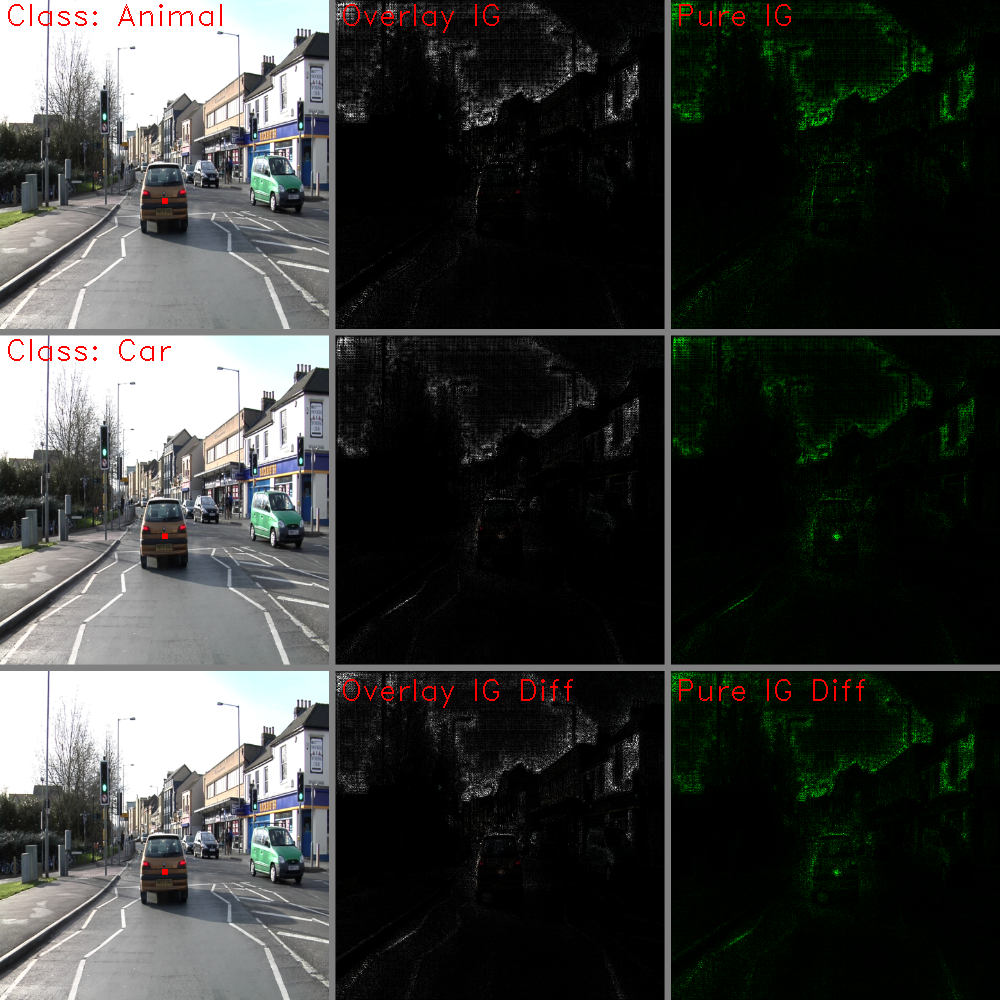
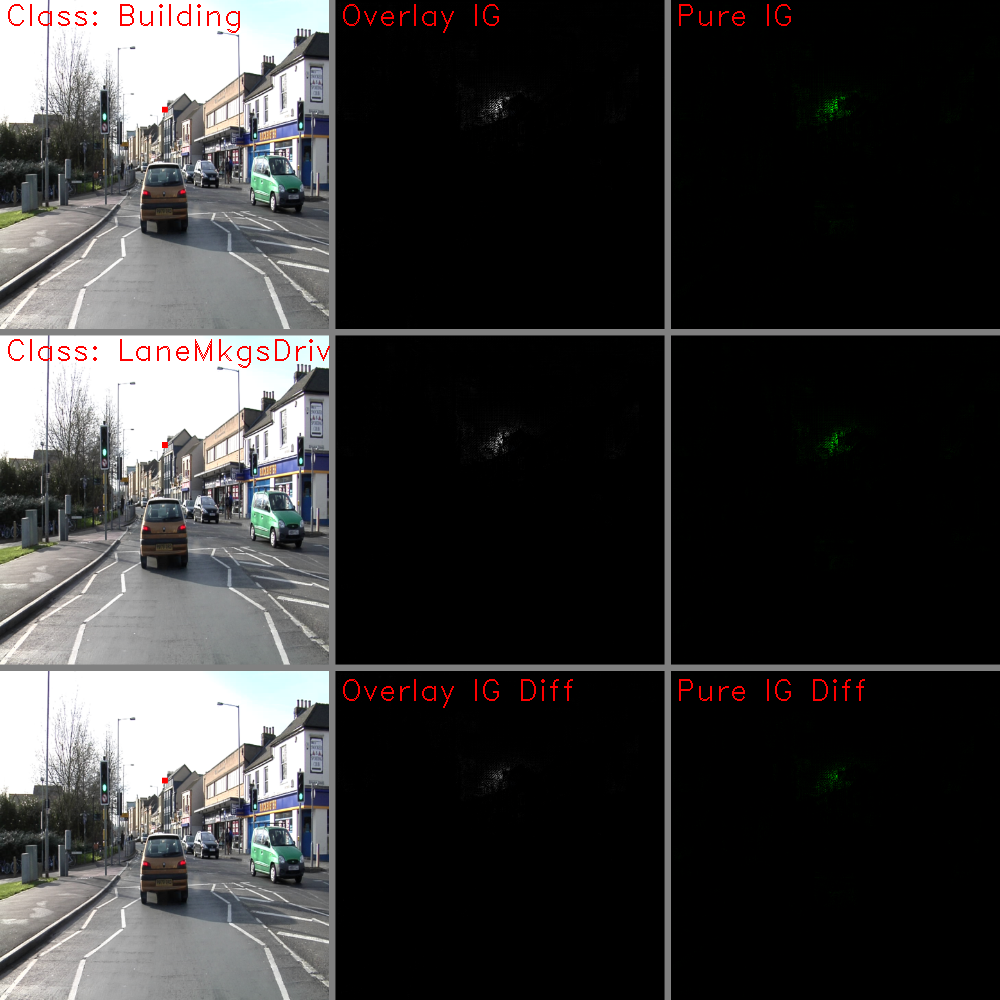
Added just gradients calculation
Added a feature to just calculate the gradients scaled by the original image, no integration.

To accomplish this, I also rearranged some of the functions in Integrated_Gradients, allowing easier compartmentalization and offshoots.

diff --git a/Integrated_Gradients.py b/Integrated_Gradients.py
@@ -8,17 +8,25 @@ from transformers import SegformerFeatureExtractor
 # reduce_labels is not included (such that it defaults to False) - Unlike ADE20k, we don't have a background label
 featureExtractor = SegformerFeatureExtractor()
 
+# Given the input image array, convert it to a PyTorch tensor and push it through the model, get the output logits
+def calculate_outputs(imgArr, model, device):
+
+    # Get the tensor (1x3xHxW) output from the SegFormer preprocessor
+    imgTens = featureExtractor(imgArr, return_tensors='pt')['pixel_values'].to(device)
+    imgTens.requires_grad = True
+
+    # Evaluate the model and get classifier outputs
+    outputTens = model(pixel_values=imgTens)
+    outputTens = outputTens.logits
+
+    return imgTens, outputTens
+
 
 # Between a baseline image and the target image, calculate the intermediate gradient values and discretely integrate
 def integ_gradients(imgArr, model, targetLabelIdx, targetPxH, targetPxW, baseline, steps, device):
 
-    # imgArr is a  numpy array (HxWxRGB) representing a PIL image
-    # model is the pytorch model
-    # targetLabelIdx is the index from which to calculate gradients
-    # targetPxH and targetPxW are the target pixel height and width indices
+    # Other inputs covered in run_baseline_integ_gradients
     # baseline is the baseline image numpy array, same size as imgArr
-    # steps is the number of linearly interpolated images to calculate between baseline and imgArr
-    # device is the torch.device
 
     # This is a list of the image arrays representing the steps along a linear path between baseline and input images
     imgDelta = imgArr - baseline
@@ -29,13 +37,8 @@ def integ_gradients(imgArr, model, targetLabelIdx, targetPxH, targetPxW, baselin
     gradsArrList = []
     for scaledInp in scaledInpList:
 
-        # Get the tensor (1x3xHxW) output from the SegFormer preprocessor
-        imgTens = featureExtractor(scaledInp, return_tensors='pt')['pixel_values'].to(device)
-        imgTens.requires_grad = True
-
-        # Evaluate the model and get classifier outputs
-        outputTens = model(pixel_values=imgTens)
-        outputTens = outputTens.logits
+        # Get the input image tensor and calculate the output tensor through the model
+        imgTens, outputTens = calculate_outputs(scaledInp, model, device)
 
         # Gathers the result at the given targetLabelIdx and pixel location
         outputTens = outputTens[0, targetLabelIdx, targetPxH, targetPxW]
@@ -85,15 +88,31 @@ def run_baseline_integ_gradients(imgArr, model, targetLabelIdx, targetPxH, targe
     allIntegGradsList = []
 
     # Run integrated gradients with a random baseline image and accumulate the results in allIntegGradsList
-    # If no baseline specified, use 0's array as baseline, else run with n baselines
-    if nRandBaselines is None:
+    # If 'scale', just regular gradients and scale them, if 'zero', use 0s array as baseline, else run with n baselines
+    if nRandBaselines == 'scale':
+        print('  Scaled Gradients')
+
+        # This is essentially the chunk of code out of integrated_gradients, but only for one input (no integration)
+        imgTens, outputTens = calculate_outputs(imgArr, model, device)
+        outputTens = outputTens[0, targetLabelIdx, targetPxH, targetPxW]
+        model.zero_grad()
+        outputTens.backward()
+        gradsArr = imgTens.grad.detach().cpu().numpy().squeeze()
+        prepImgArr = featureExtractor(imgArr, return_tensors='np')['pixel_values'].squeeze()
+
+        # Scale the single image gradients by the image
+        integGrad = gradsArr * prepImgArr
+        allIntegGradsList.append(integGrad)
+
+    elif nRandBaselines == 'zero':
         print('  Zero Baseline')
         integGrad = integ_gradients(imgArr, model, targetLabelIdx, targetPxH, targetPxW,
                                     baseline=0.0 * imgArr, steps=steps, device=device)
         allIntegGradsList.append(integGrad)
+
     else:
         for i in range(nRandBaselines):
-            print('  Random Baseline {}'.format(i))
+            print('  Random Baseline {}'.format(i + 1))
             integGrad = integ_gradients(imgArr, model, targetLabelIdx, targetPxH, targetPxW,
                                         baseline=255.0 * np.random.random(imgArr.shape), steps=steps, device=device)
             allIntegGradsList.append(integGrad)

diff --git a/Main.py b/Main.py
@@ -5,9 +5,9 @@ from collections import OrderedDict
 
 import torch
 
-from transformers import SegformerFeatureExtractor, SegformerForSemanticSegmentation
+from transformers import SegformerForSemanticSegmentation
 
-from Integrated_Gradients import run_baseline_integ_gradients
+from Integrated_Gradients import calculate_outputs, run_baseline_integ_gradients
 from Visualization import visualize, generate_entire_images
 from Define_Class_Dicts import define_class_dicts
 
@@ -24,11 +24,14 @@ labelName = '0016E5_01350_L.png'
 
 modelCkpt = 'checkpoints/b0_epoch=81-val_mean_iou=0.53.ckpt'
 useCuda = True
-nRandBaselines = None # Number of random baselines images, set as None to use zero baseline
-nSteps = 50 # Number of integration steps between baseline and target
+
+# Number of random baselines images and the number of steps between baseline and target
+# Set nRandBaselines as 'zero' to use the zero baseline, set as 'scale' to use scaled gradients (not integ gradients)
+nRandBaselines = 'scale'
+nSteps = 20
 
 # Target pixel location
-tgtPxH1 = 312
+tgtPxH1 = 170
 tgtPxW1 = 256
 tgtPxH2 = tgtPxH1
 tgtPxW2 = tgtPxW1
@@ -38,14 +41,19 @@ tgtPxW2 = tgtPxW1
 # 'true' to select get the truth label index from the ground truth segmentation image is implemented, but doesn't
 # work due to a bug in the opencv2 interpolation method. Even using exact nearest neighbor, there is pixel interpolation
 # such that new colors are created
-class1Type = 'rank'
+class1Type = 'true'
 class1Label = 0
-class2Type = 'true'
+class2Type = 'rank'
 class2Label = 10
 
 ##############
 # Misc Setup #
 ##############
+
+if class1Type == 'same' or class1Type == 'true':
+    class1Label = '-'
+if class2Type == 'same' or class2Type == 'true':
+    class2Label = '-'
 
 # Function that imports segmentation labels and colors
 id2label, label2id, id2color, color2id = define_class_dicts('class_dict.csv')
@@ -101,19 +109,21 @@ print('Getting Target Labels')
 
 def get_target_label_idx(classType, classLabel, tgtPxH, tgtPxW):
 
+    # Look at output and get class index by rank
     if classType == 'rank':
-        # Need to preprocess and process the whole image to get outputs
-        # Preprocess (normalize and resize) the input image array and get a PyTorch tensor
-        featureExtractor = SegformerFeatureExtractor()
-        imgTens = featureExtractor(imgArr, return_tensors='pt')['pixel_values'].to(device)
 
-        # For the given input image tensor, get the prediction output tensor and convert to numpy
-        outputTens = model(pixel_values=imgTens)
-        outputTens = outputTens.logits.detach().cpu().numpy()
+        # Get image input tensor and resulting output tensor
+        _, outputTens = calculate_outputs(imgArr, model, device)
+        outputTens = outputTens.detach().cpu().numpy()
 
+        # Calculate the target label index by looking at the classes of a certain pixel
         tgtLabelIdx = np.argsort(outputTens[0, :, int(tgtPxH / 4), int(tgtPxW / 4)])[::-1][classLabel]
+
+    # Just get the label index from input
     elif classType == 'idx':
         tgtLabelIdx = classLabel
+
+    # Load the truth image and get the corresponding value from there
     elif classType == 'true':
         tgtLabelIdx = color2id[tuple(labelArrRS[tgtPxH, tgtPxW, :])]
 
